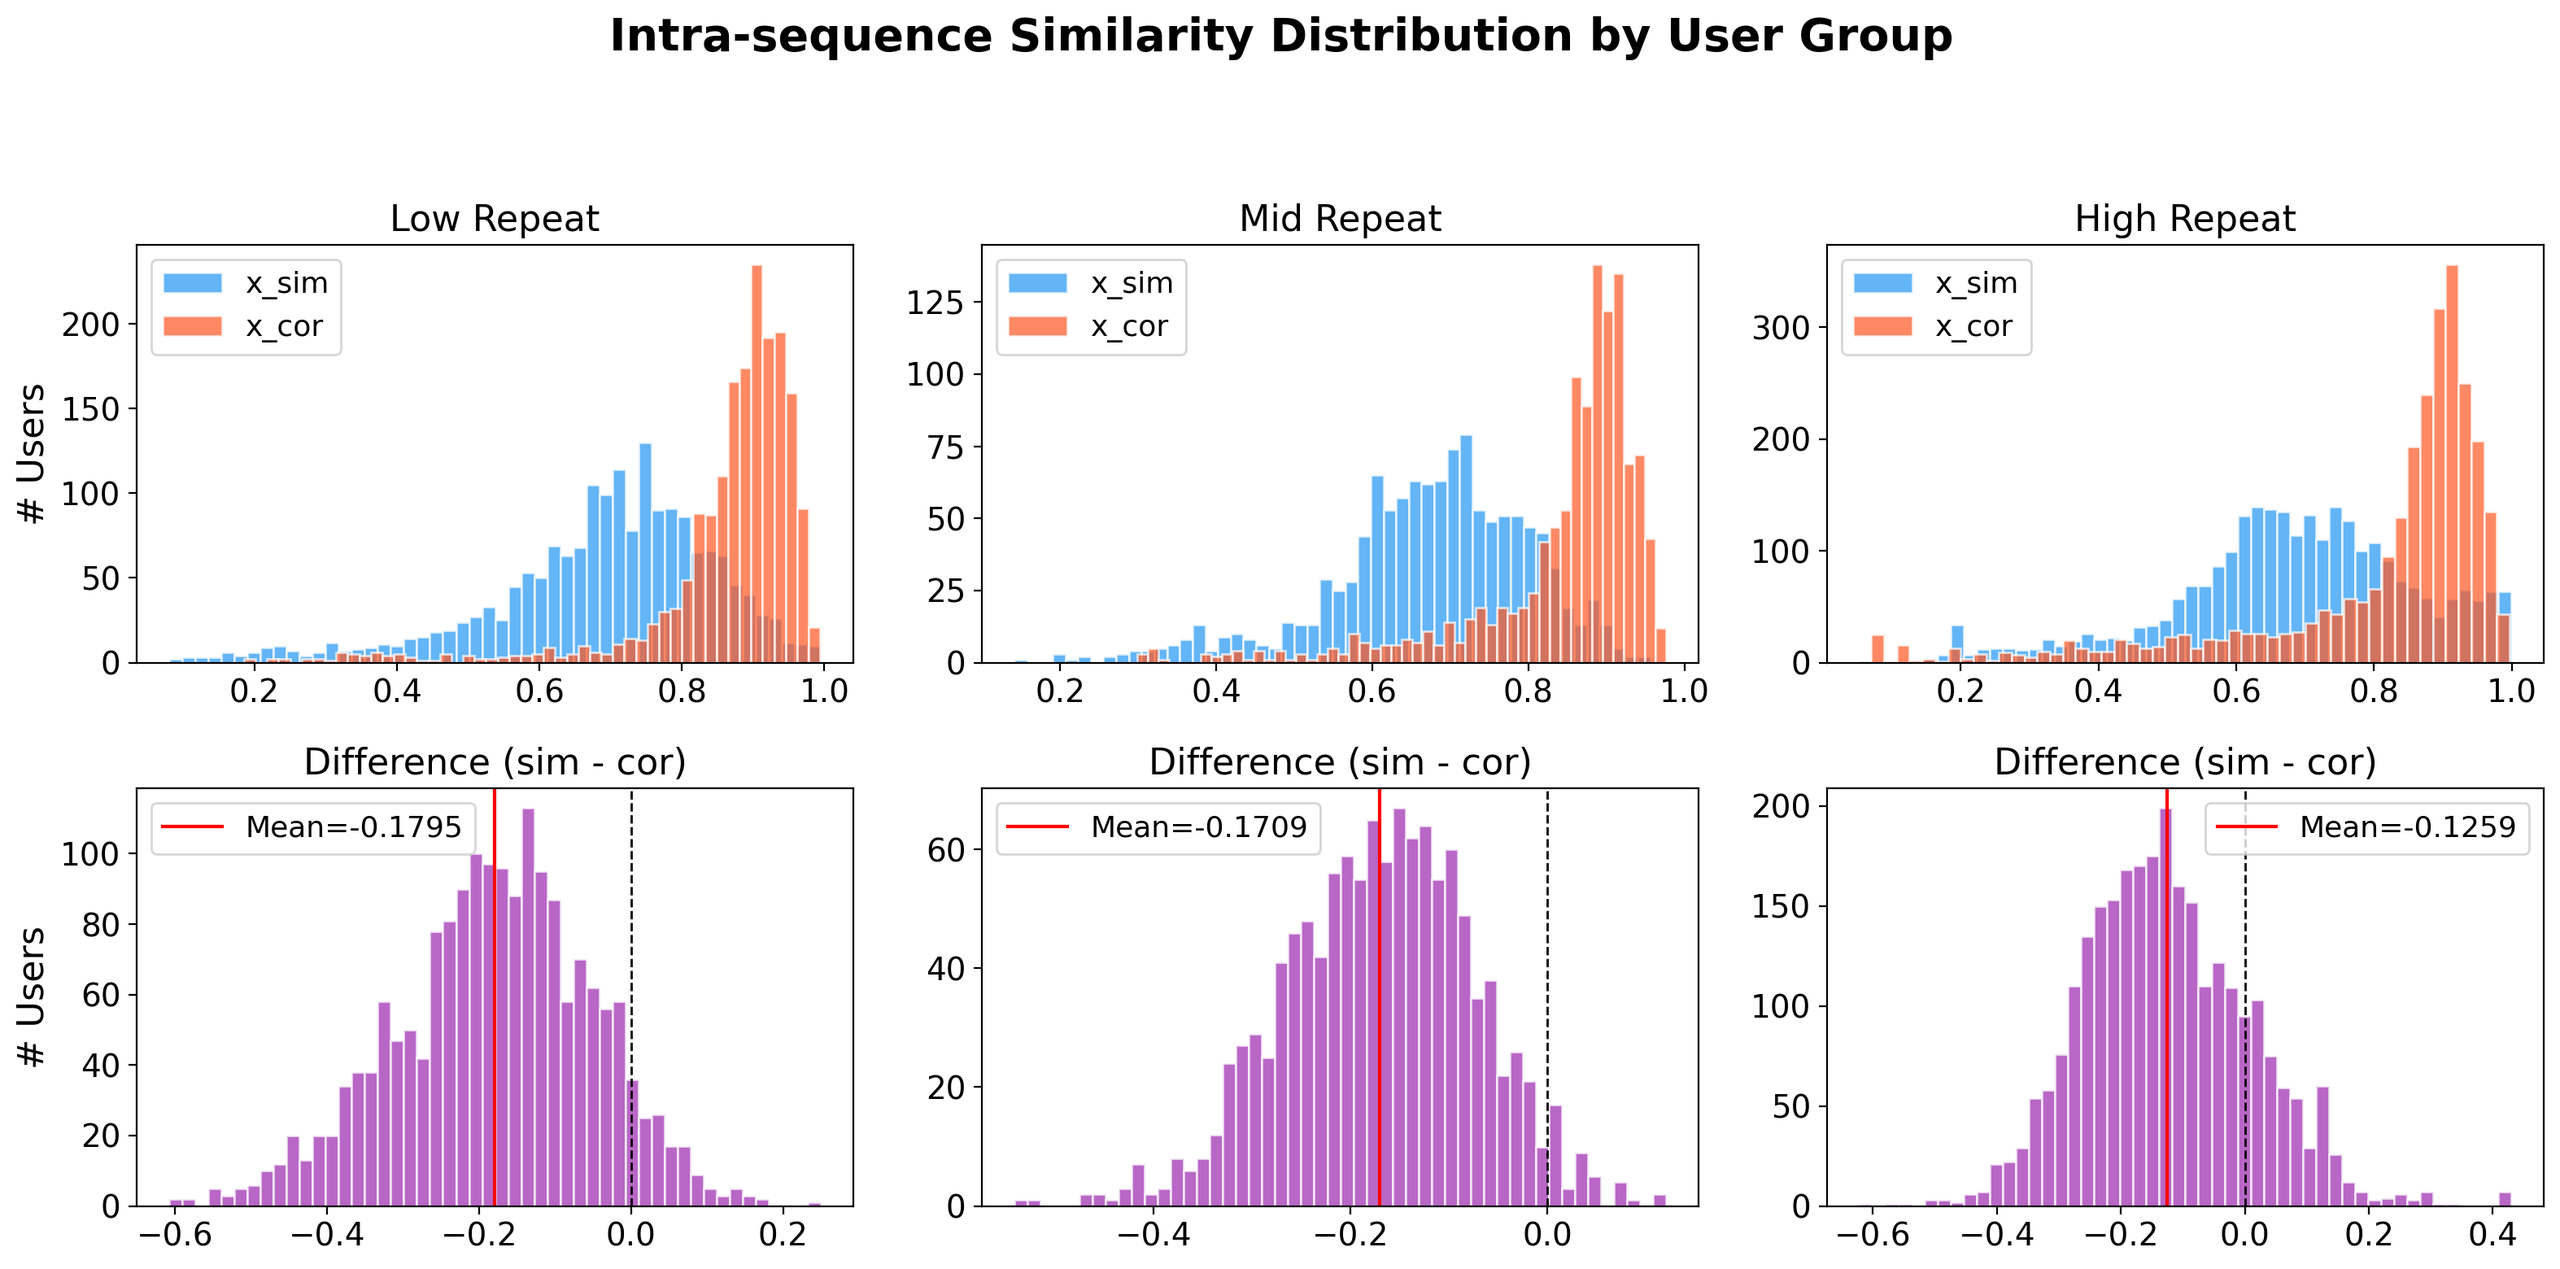
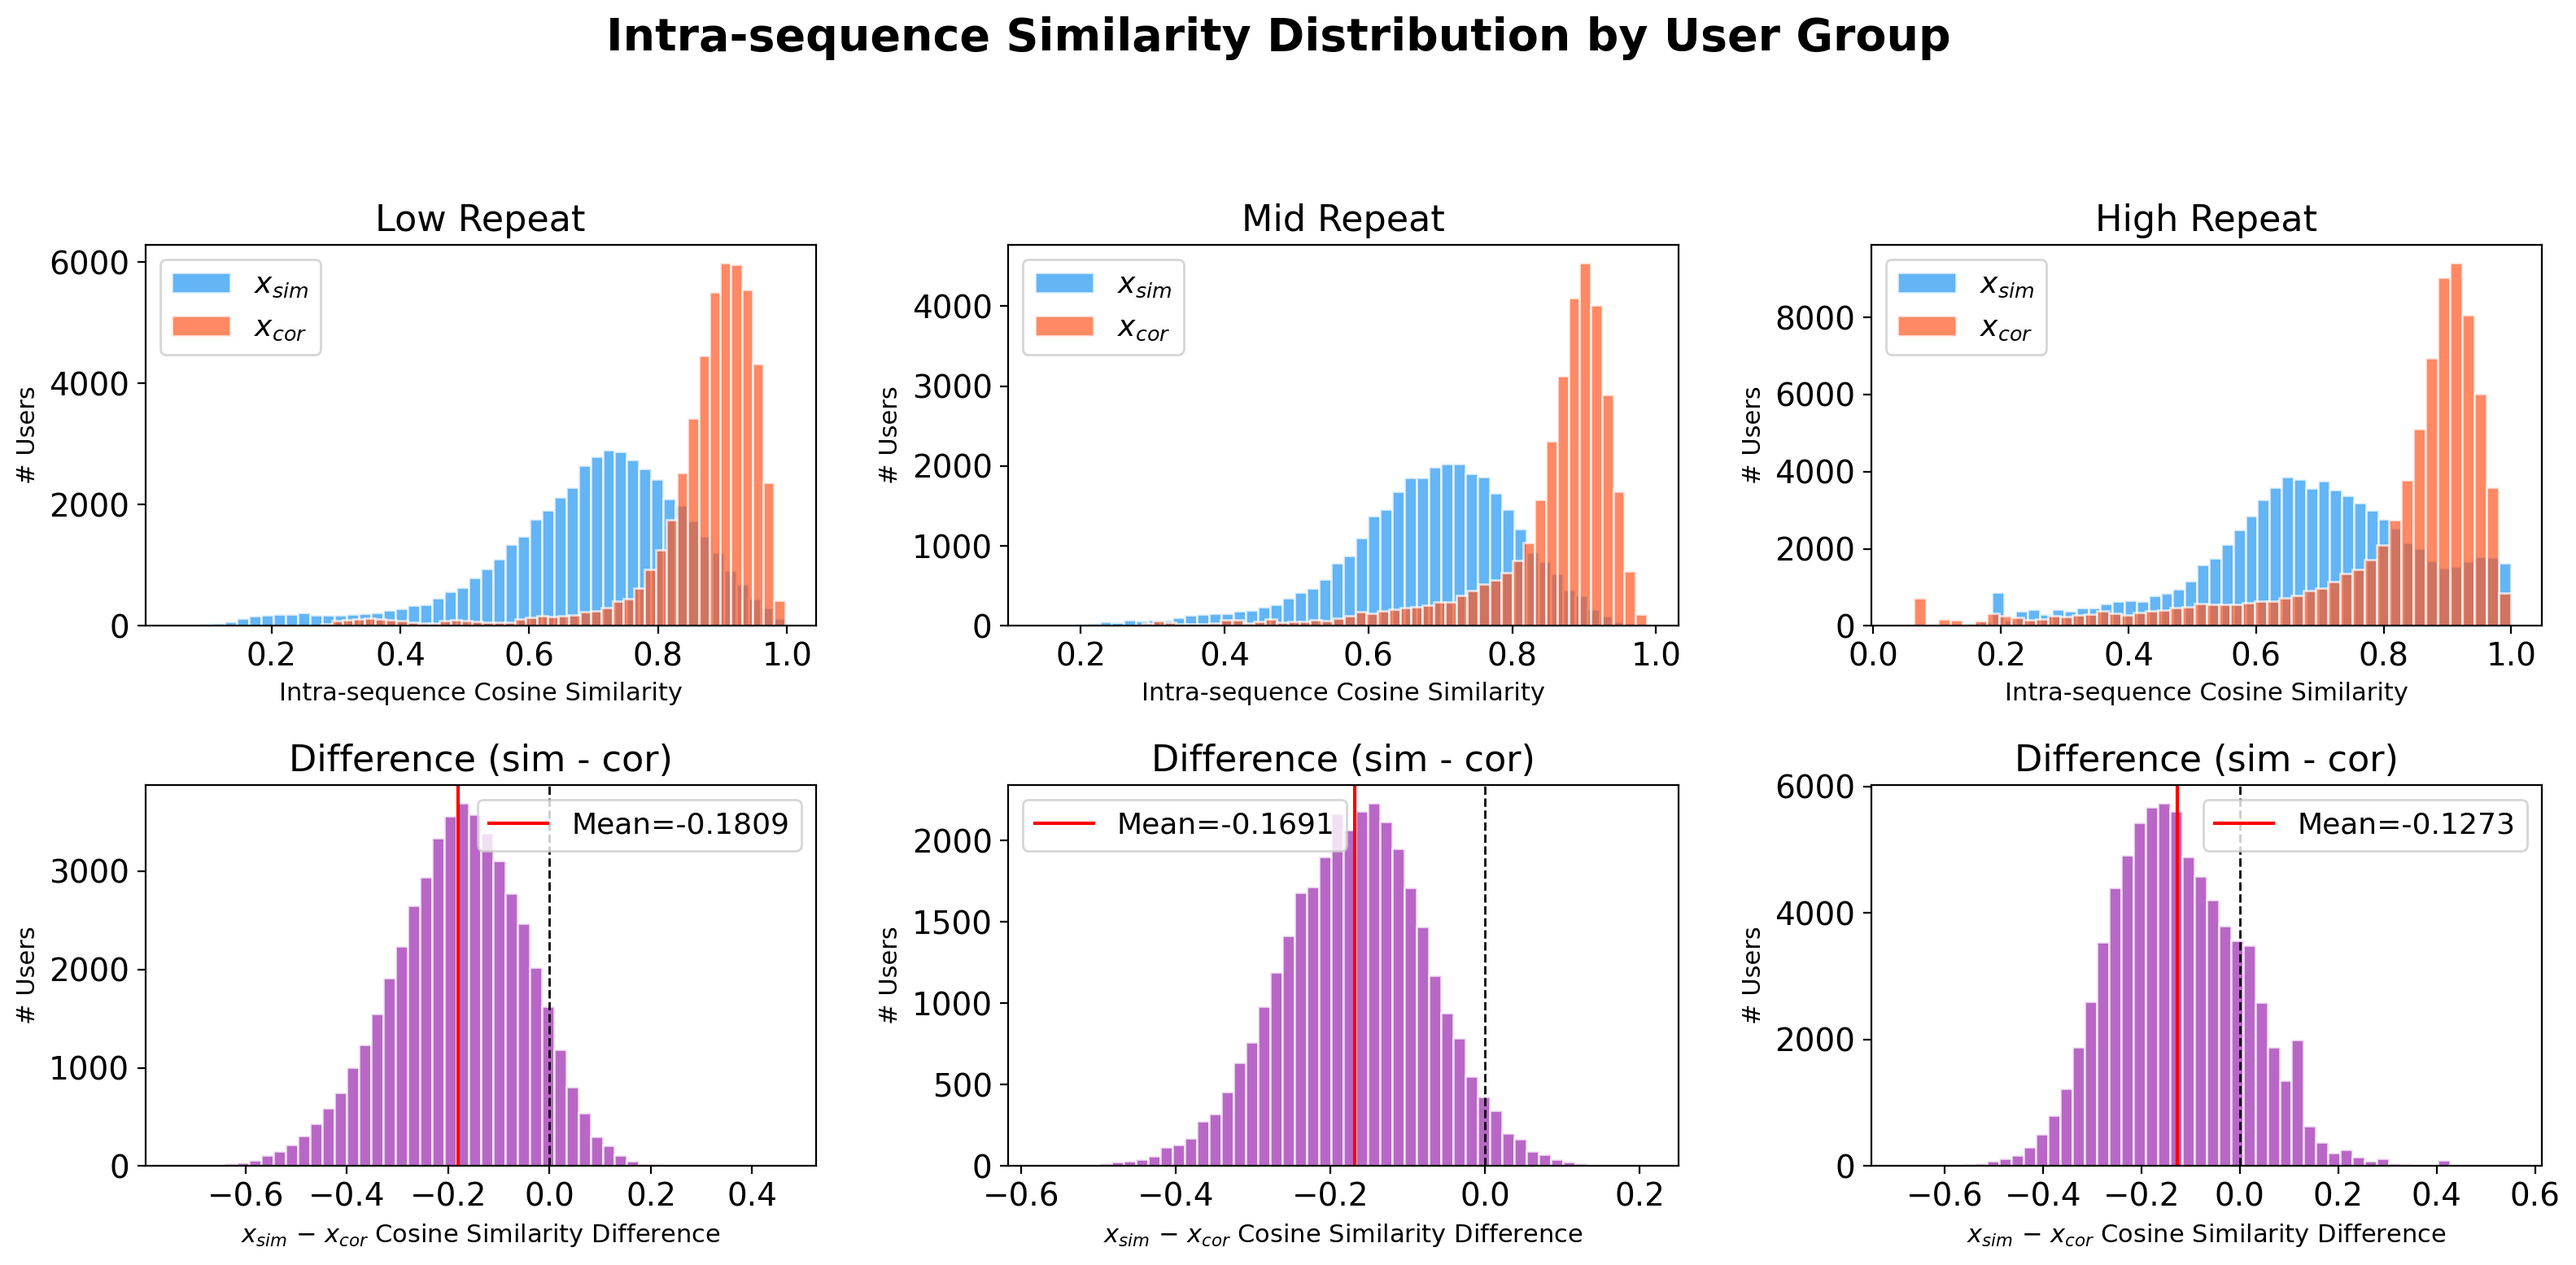
rq2

diff --git a/experiments/RQ2/analyze_rq2.py b/experiments/RQ2/analyze_rq2.py
@@ -52,8 +52,8 @@ def parse_args():
     parser.add_argument('--cooc_window', type=int, default=5)
     parser.add_argument('--decay_days', type=float, default=0.002)
     parser.add_argument('--gpu', type=int, default=0)
-    parser.add_argument('--max_users', type=int, default=10000,
-                        help='分析最大使用者數（避免太慢）')
+    parser.add_argument('--max_users', type=int, default=-1,
+                        help='分析最大使用者數（-1 表示全部）')
     return parser.parse_args()
 
 
@@ -198,7 +198,7 @@ def analyze_projection_weights(model, output_dir):
 
     # 權重矩陣視覺化
     fig, axes = plt.subplots(2, 3, figsize=(16, 8))
-    fig.suptitle('Projection Layer Weight Comparison: proj_sim vs proj_cor', fontsize=20, fontweight='bold')
+    fig.suptitle(r'Projection Layer Weight Comparison: $proj_{sim}$ vs $proj_{cor}$', fontsize=20, fontweight='bold')
 
     for row, (idx, name) in enumerate(layers):
         w_sim = model.proj_sim[idx].weight.data.cpu().numpy()
@@ -207,8 +207,8 @@ def analyze_projection_weights(model, output_dir):
 
         vmax = max(abs(w_sim).max(), abs(w_cor).max())
         for ax, data, title in [
-            (axes[row, 0], w_sim, f'proj_sim {name}'),
-            (axes[row, 1], w_cor, f'proj_cor {name}'),
+            (axes[row, 0], w_sim, f'$proj_{{sim}}$ {name}'),
+            (axes[row, 1], w_cor, f'$proj_{{cor}}$ {name}'),
             (axes[row, 2], diff, f'Difference (sim - cor)'),
         ]:
             if 'Difference' in title:
@@ -293,8 +293,9 @@ def analyze_user_clustering(model, device, adj_sim, adj_sim_dele, adj_cor, adj_c
     cor_clustering = {0: [], 1: [], 2: []}
 
     # 取樣使用者
+    np.random.seed(42)
     n_total = len(train_set)
-    if n_total > max_users:
+    if max_users > 0 and n_total > max_users:
         sample_idx = np.random.choice(n_total, max_users, replace=False)
     else:
         sample_idx = np.arange(n_total)
@@ -332,20 +333,40 @@ def analyze_user_clustering(model, device, adj_sim, adj_sim_dele, adj_cor, adj_c
         print(f"    差值 (sim - cor):  {(sim_arr - cor_arr).mean():.4f}")
 
     # ---- 視覺化 1：箱型圖 ----
-    fig, axes = plt.subplots(1, 3, figsize=(15, 5))
-    fig.suptitle('User Sequence Clustering: x_sim vs x_cor by Repeat Purchase Group',
+    fig, axes = plt.subplots(1, 3, figsize=(15, 5), sharey=True)
+    fig.suptitle(r'User Sequence Clustering: $\mathbf{x_{sim}}$ vs $\mathbf{x_{cor}}$ by Repeat Purchase Group',
                  fontsize=20, fontweight='bold')
 
     for g, ax in enumerate(axes):
         data = [sim_clustering[g], cor_clustering[g]]
-        bp = ax.boxplot(data, labels=['x_sim', 'x_cor'], patch_artist=True,
+        bp = ax.boxplot(data, labels=['$x_{sim}$', '$x_{cor}$'], patch_artist=True,
                         widths=0.5, showfliers=False)
         bp['boxes'][0].set_facecolor('#2196F3')
         bp['boxes'][0].set_alpha(0.7)
         bp['boxes'][1].set_facecolor('#FF5722')
         bp['boxes'][1].set_alpha(0.7)
+
+        # 中位數線改紅色
+        for median_line in bp['medians']:
+            median_line.set_color('red')
+            median_line.set_linewidth(2)
+
+        # 標注中位數、Q1、Q3 數字
+        for i, arr in enumerate(data):
+            x_pos = i + 1
+            q1 = np.percentile(arr, 25)
+            median = np.percentile(arr, 50)
+            q3 = np.percentile(arr, 75)
+            ax.text(x_pos + 0.27, median, f'{median:.3f}', va='center', ha='left',
+                    fontsize=11, color='red', fontweight='bold')
+            ax.text(x_pos + 0.27, q1, f'{q1:.3f}', va='center', ha='left',
+                    fontsize=10, color='#444444')
+            ax.text(x_pos + 0.27, q3, f'{q3:.3f}', va='center', ha='left',
+                    fontsize=10, color='#444444')
+
         ax.set_title(f'{group_names[g]}', fontsize=16)
         ax.set_ylabel('Intra-sequence Cosine Similarity')
+        ax.tick_params(labelleft=True)
 
         # 加上 t-test 結果
         t_stat, p_val = stats.ttest_ind(sim_clustering[g], cor_clustering[g])
@@ -367,13 +388,13 @@ def analyze_user_clustering(model, device, adj_sim, adj_sim_dele, adj_cor, adj_c
     for g in range(3):
         # x_sim 分布
         axes[0, g].hist(sim_clustering[g], bins=50, alpha=0.7, color='#2196F3',
-                        edgecolor='white', label='x_sim')
+                        edgecolor='white', label='$x_{sim}$')
         axes[0, g].hist(cor_clustering[g], bins=50, alpha=0.7, color='#FF5722',
-                        edgecolor='white', label='x_cor')
+                        edgecolor='white', label='$x_{cor}$')
         axes[0, g].set_title(f'{group_names[g]}', fontsize=16)
+        axes[0, g].set_xlabel('Intra-sequence Cosine Similarity', fontsize=11)
         axes[0, g].legend(fontsize=13)
-        if g == 0:
-            axes[0, g].set_ylabel('# Users')
+        axes[0, g].set_ylabel('# Users', fontsize=11)
 
         # 差值分布 (sim - cor)
         diff = np.array(sim_clustering[g]) - np.array(cor_clustering[g])
@@ -382,9 +403,9 @@ def analyze_user_clustering(model, device, adj_sim, adj_sim_dele, adj_cor, adj_c
         axes[1, g].axvline(diff.mean(), color='red', linestyle='-', linewidth=1.5,
                            label=f'Mean={diff.mean():.4f}')
         axes[1, g].set_title(f'Difference (sim - cor)', fontsize=16)
+        axes[1, g].set_xlabel('$x_{sim}$ − $x_{cor}$ Cosine Similarity Difference', fontsize=11)
         axes[1, g].legend(fontsize=13)
-        if g == 0:
-            axes[1, g].set_ylabel('# Users')
+        axes[1, g].set_ylabel('# Users', fontsize=11)
 
     plt.tight_layout(rect=[0, 0, 1, 0.93])
     save_path = os.path.join(output_dir, 'user_clustering_distribution.png')
@@ -451,6 +472,7 @@ def plot_repeat_ratio_distribution(ratios, groups, p33, p67, output_dir):
 
     ax.axvline(p33, color='gray', linestyle='--', linewidth=1, label=f'P33={p33:.3f}')
     ax.axvline(p67, color='gray', linestyle=':', linewidth=1, label=f'P67={p67:.3f}')
+    ax.set_xlim(-0.02, 1.02)
     ax.set_xlabel('Repeat Purchase Ratio (by CID3)')
     ax.set_ylabel('# Users')
     ax.set_title('User Repeat Purchase Ratio Distribution', fontsize=18, fontweight='bold')
@@ -478,14 +500,14 @@ def plot_summary_bar(sim_clustering, cor_clustering, output_dir):
     width = 0.3
 
     fig, ax = plt.subplots(figsize=(8, 5))
-    ax.bar(x - width / 2, sim_means, width, yerr=sim_stds, label='x_sim',
+    ax.bar(x - width / 2, sim_means, width, yerr=sim_stds, label='$x_{sim}$',
            color='#2196F3', alpha=0.8, capsize=3)
-    ax.bar(x + width / 2, cor_means, width, yerr=cor_stds, label='x_cor',
+    ax.bar(x + width / 2, cor_means, width, yerr=cor_stds, label='$x_{cor}$',
            color='#FF5722', alpha=0.8, capsize=3)
     ax.set_xticks(x)
     ax.set_xticklabels(group_names)
     ax.set_ylabel('Mean Intra-sequence Cosine Similarity')
-    ax.set_title('Semantic Division of Labor: x_sim vs x_cor by User Group',
+    ax.set_title(r'Semantic Division of Labor: $x_{sim}$ vs $x_{cor}$ by User Group',
                  fontsize=18, fontweight='bold')
     ax.legend()
 
